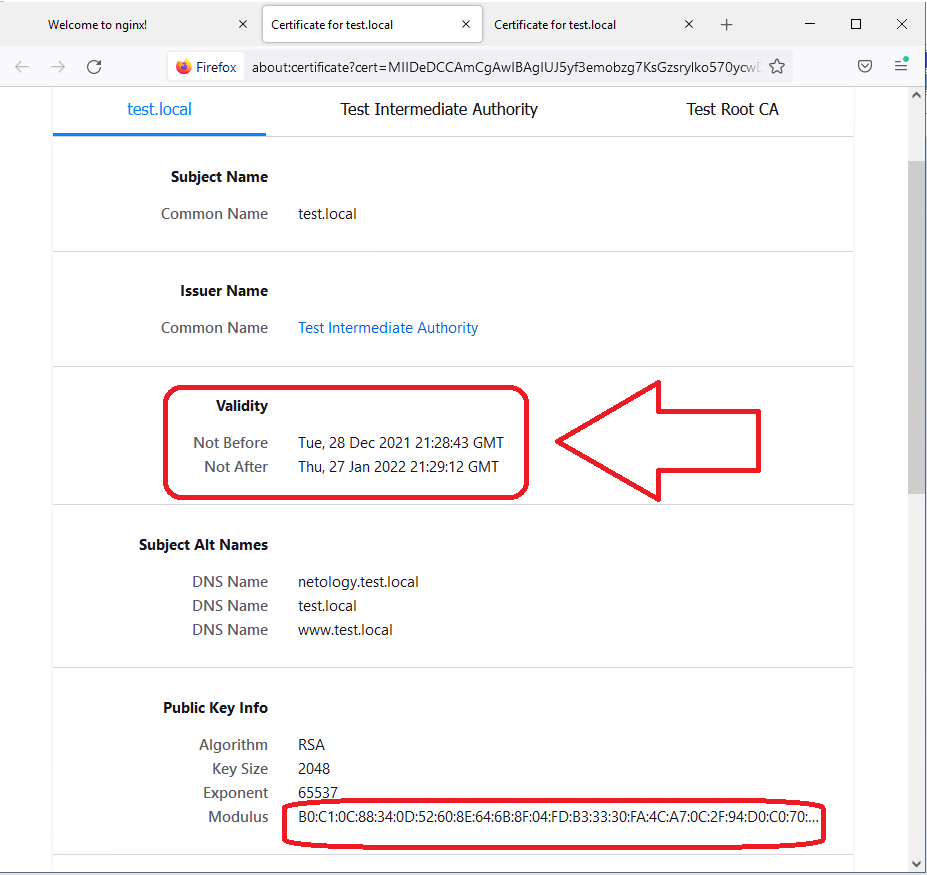
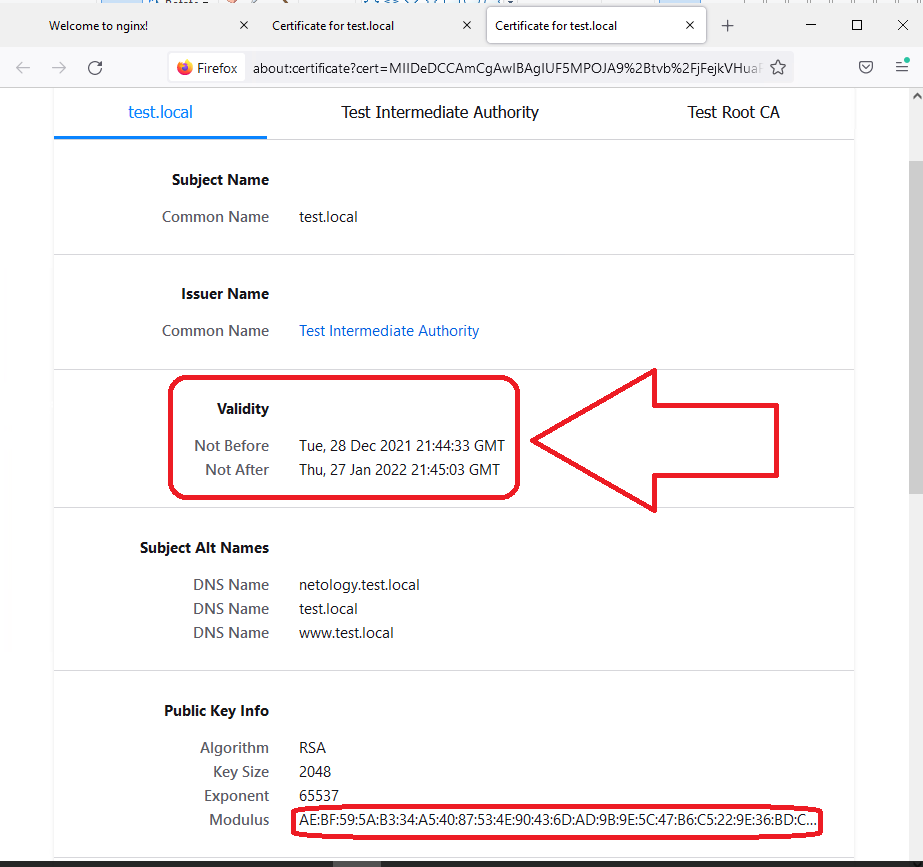
[diplom] v0.08

diff --git a/pcs-devsys-diplom/README.md b/pcs-devsys-diplom/README.md
@@ -672,13 +672,12 @@ root@netology:~# crontab -l
 ```shell
 root@netology:~# journalctl -f
 -- Logs begin at Tue 2021-12-28 11:12:42 UTC. --
-Dec 28 21:35:14 netology.test.local crontab[1715]: (root) END EDIT (root)
-Dec 28 21:35:21 netology.test.local systemd[1]: Stopping A high performance web server and a reverse proxy server...
-Dec 28 21:35:21 netology.test.local systemd[1]: nginx.service: Succeeded.
-Dec 28 21:35:21 netology.test.local systemd[1]: Stopped A high performance web server and a reverse proxy server.
-Dec 28 21:35:21 netology.test.local systemd[1]: Starting A high performance web server and a reverse proxy server...
-Dec 28 21:35:21 netology.test.local systemd[1]: Started A high performance web server and a reverse proxy server.
 ...
+Dec 28 21:35:14 netology.test.local crontab[1715]: (root) END EDIT (root)
+Dec 28 21:35:32 netology.test.local crontab[1806]: (root) BEGIN EDIT (root)
+Dec 28 21:35:51 netology.test.local crontab[1806]: (root) REPLACE (root)
+Dec 28 21:35:51 netology.test.local crontab[1806]: (root) END EDIT (root)
+Dec 28 21:35:53 netology.test.local crontab[1811]: (root) LIST (root)
 Dec 28 21:45:01 netology.test.local CRON[1817]: pam_unix(cron:session): session opened for user root by (uid=0)
 Dec 28 21:45:01 netology.test.local CRON[1818]: (root) CMD (/usr/bin/bash /root/cert_renew.sh &>/dev/null)
 Dec 28 21:45:01 netology.test.local CRON[1817]: pam_unix(cron:session): session closed for user root
@@ -687,7 +686,14 @@ Dec 28 21:45:03 netology.test.local systemd[1]: nginx.service: Succeeded.
 Dec 28 21:45:03 netology.test.local systemd[1]: Stopped A high performance web server and a reverse proxy server.
 Dec 28 21:45:03 netology.test.local systemd[1]: Starting A high performance web server and a reverse proxy server...
 Dec 28 21:45:03 netology.test.local systemd[1]: Started A high performance web server and a reverse proxy server.
-
+Dec 28 22:00:01 netology.test.local CRON[1887]: pam_unix(cron:session): session opened for user root by (uid=0)
+Dec 28 22:00:01 netology.test.local CRON[1888]: (root) CMD (/usr/bin/bash /root/cert_renew.sh &>/dev/null)
+Dec 28 22:00:01 netology.test.local CRON[1887]: pam_unix(cron:session): session closed for user root
+Dec 28 22:00:03 netology.test.local systemd[1]: Stopping A high performance web server and a reverse proxy server...
+Dec 28 22:00:03 netology.test.local systemd[1]: nginx.service: Succeeded.
+Dec 28 22:00:03 netology.test.local systemd[1]: Stopped A high performance web server and a reverse proxy server.
+Dec 28 22:00:03 netology.test.local systemd[1]: Starting A high performance web server and a reverse proxy server...
+Dec 28 22:00:03 netology.test.local systemd[1]: Started A high performance web server and a reverse proxy server.
 ```
 Скриншот окна браузера открытого на хосте (до обновления сертификата)
 
